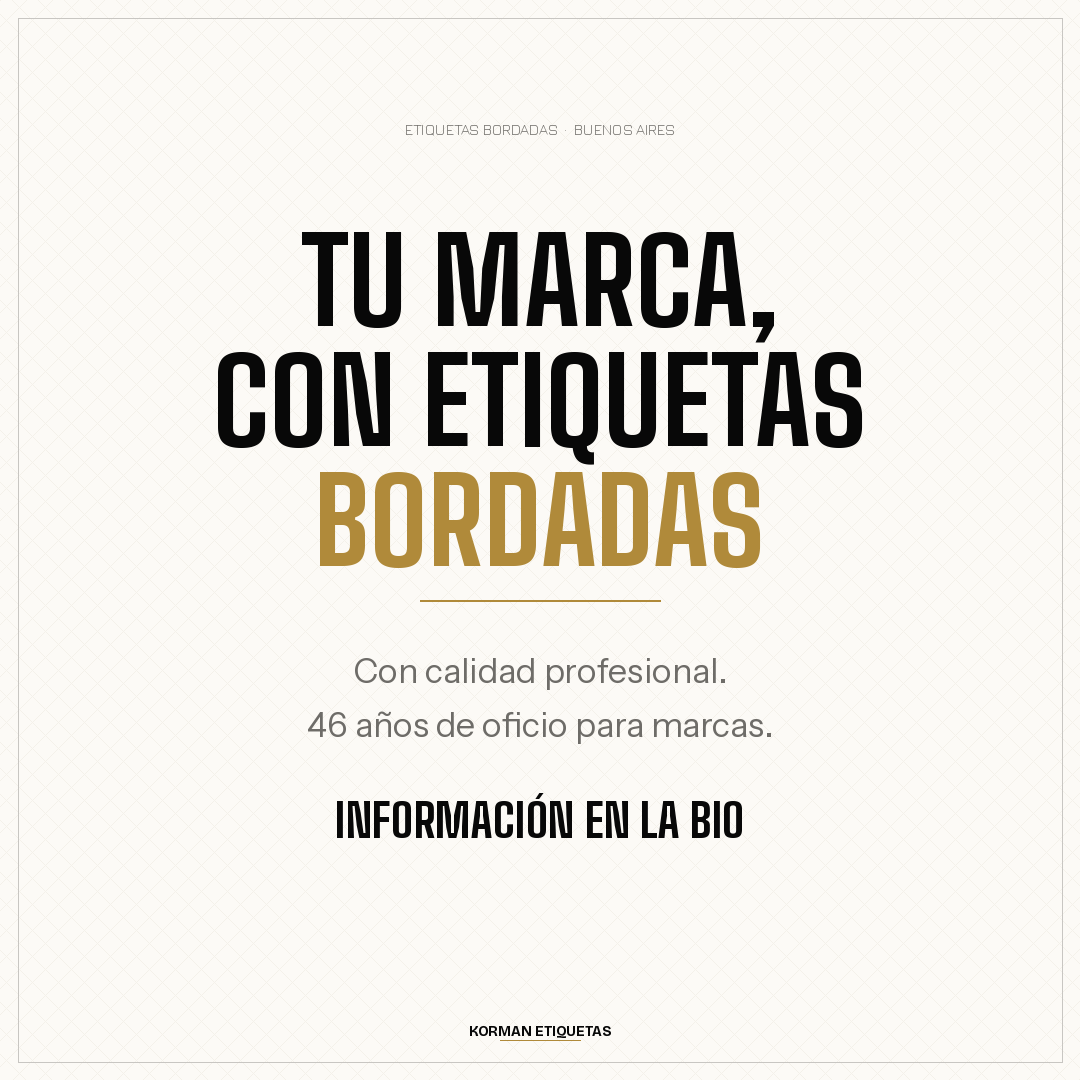
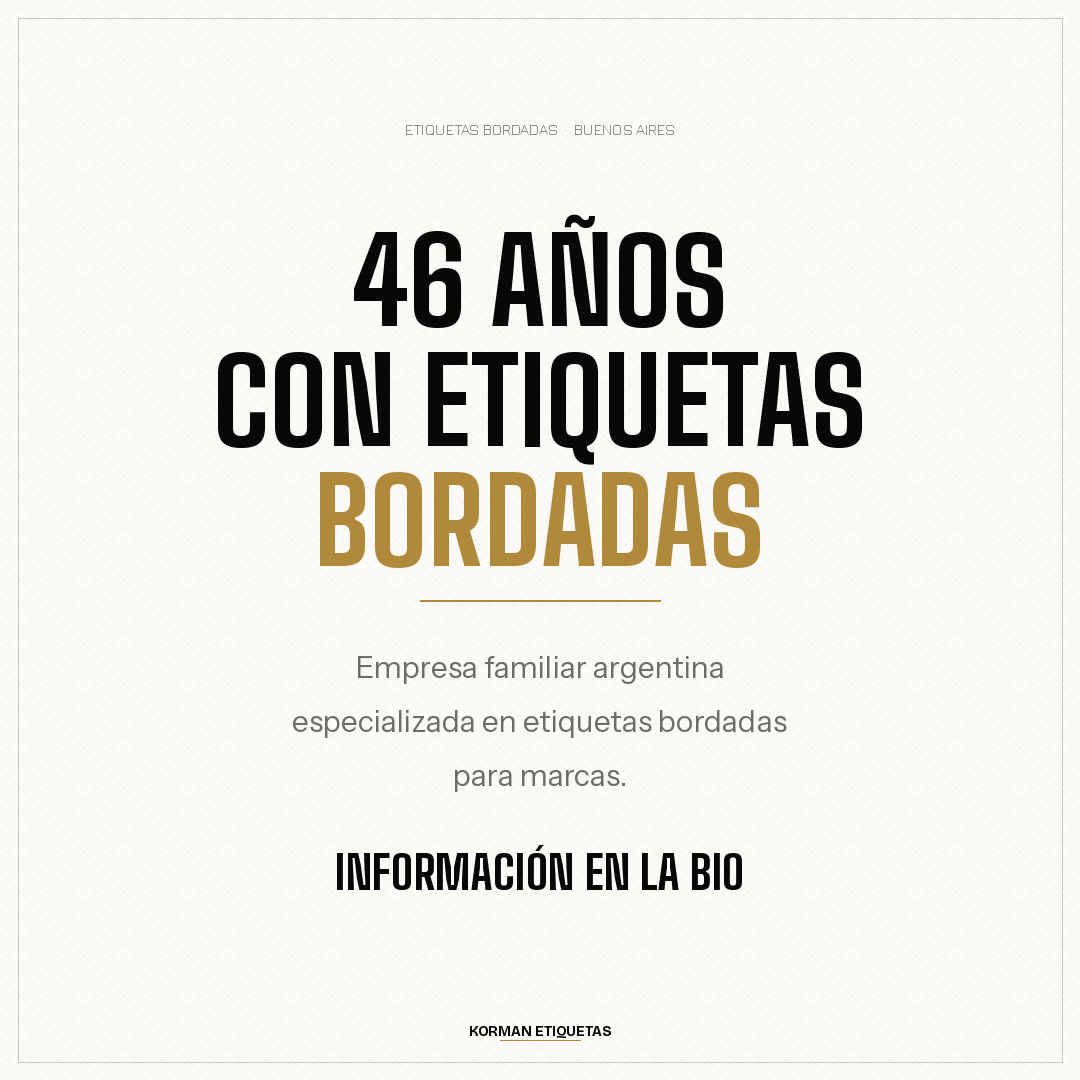
Post presentacion: titulo grande 46 AÑOS CON ETIQUETAS BORDADAS + subtitulo empresa familiar
Claude-Session: https://claude.ai/code/session_017RDuaEkxS43SZ1xs4UNenw

Changed region(s): [[0.275, 0.6111, 0.7333, 0.825], [0.275, 0.1833, 0.7333, 0.3361]]

diff --git a/generate_post_presentacion.py b/generate_post_presentacion.py
@@ -48,7 +48,7 @@ d.text(((W-tw(d,tipo,f_tipo))//2,120),tipo,font=f_tipo,fill=GRAY_MD)
 
 # Título grande — el mensaje principal
 f_t=fnt("BigShoulders-Bold.ttf",118)
-t1="TU MARCA,"
+t1="46 AÑOS"
 while tw(d,t1,f_t)>W-120: f_t=fnt("BigShoulders-Bold.ttf",f_t.size-4)
 d.text(((W-tw(d,t1,f_t))//2,210),t1,font=f_t,fill=BLACK)
 
@@ -67,12 +67,13 @@ ly=600; ll=240
 d.line([(W//2-ll//2,ly),(W//2+ll//2,ly)],fill=GOLD,width=2)
 
 # Texto cuerpo
-f_b=fnt("InstrumentSans-Regular.ttf",34)
+f_b=fnt("InstrumentSans-Regular.ttf",30)
 lines=[
-    "Con calidad profesional.",
-    "46 años de oficio para marcas.",
+    "Empresa familiar argentina",
+    "especializada en etiquetas bordadas",
+    "para marcas.",
 ]
-y=650
+y=648
 for line in lines:
     d.text(((W-tw(d,line,f_b))//2,y),line,font=f_b,fill=GRAY_MD)
     y+=54
